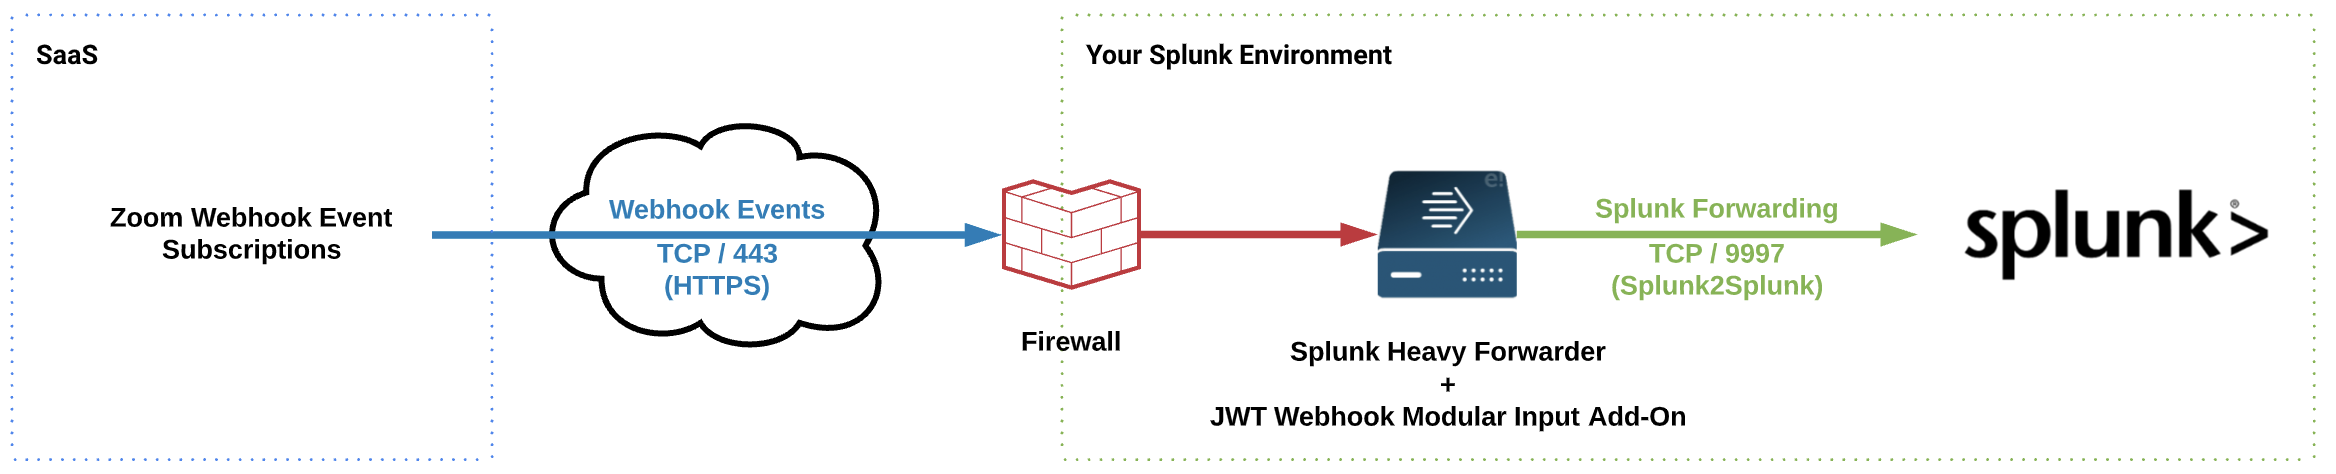
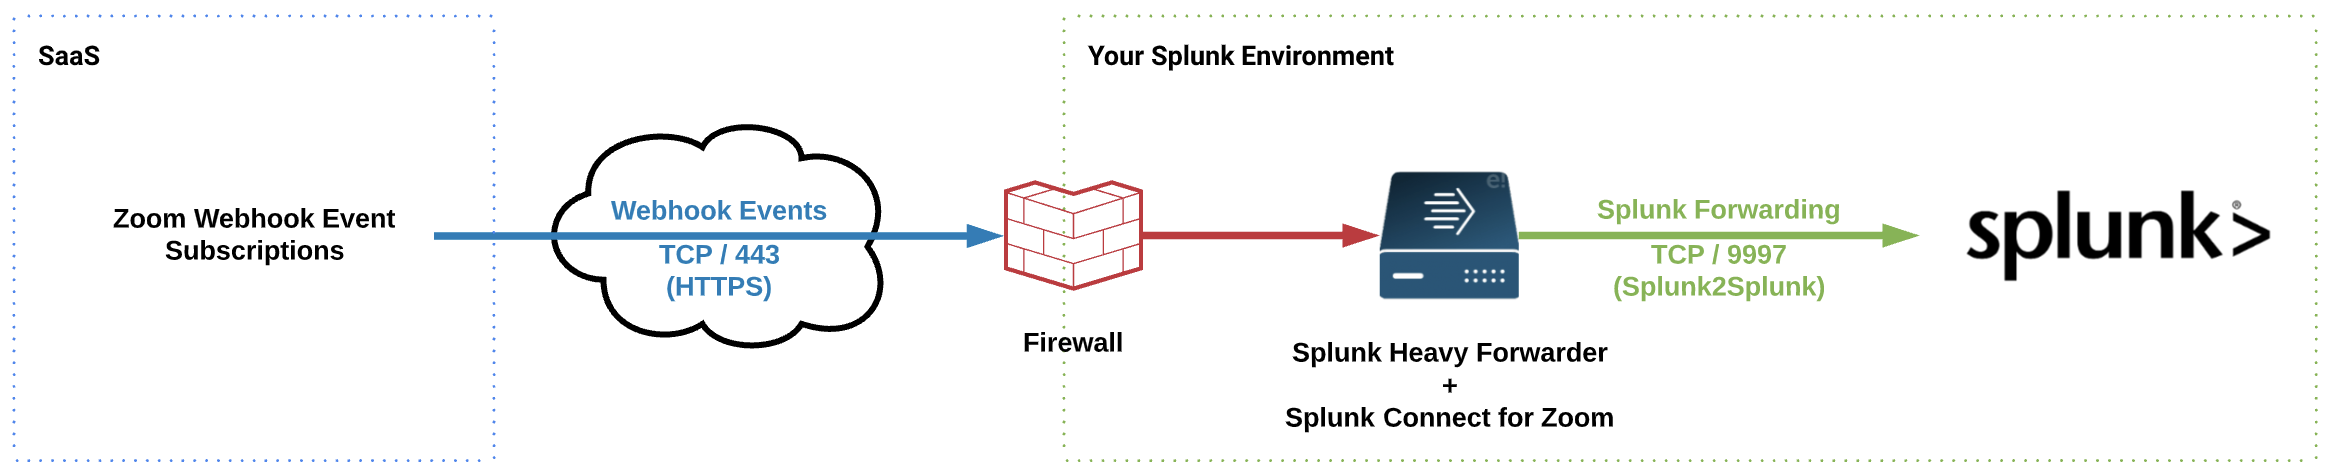
Release/1.0.4 (#24)
* Bump to 1.0.4 to match Splunkbase
* Update Zoom collection method with the use of Splunk Connect for Zoom

diff --git a/RUNBOOK.md b/RUNBOOK.md
@@ -16,14 +16,14 @@
     * [Create Zoom Webhook (Zoom only)](#create-zoom-webhook-zoom-only)
     * [Configure Remote Work Insights - Executive Dashboard](#configure-remote-work-insights---executive-dashboard)
 * [Zoom Walkthrough](#zoom-walkthrough)
-    * [Configure Splunk JWT Webhook Modular Input Add-on](#configure-splunk-jwt-webhook-modular-input-add-on)
+    * [Configure Splunk Connect for Zoom](#configure-splunk-connect-for-zoom)
     * [Create Zoom Webhook Only App](#create-zoom-webhook-only-app)
 * [Configure the Remote Work Insights - Executive Dashboard](#configure-the-remote-work-insights---executive-dashboard)
     * [Configure Indexes Macros](#configure-indexes-macros)
     * [Configure the CIM Index Constraints](#configure-the-cim-index-constraints)
 * [Additional Resources](#additional-resources)
     * [Splunk Docs](#splunk-docs)
-    * [Splunk JWT Webhook Add-on Support](#splunk-jwt-webhook-add-on-support)
+    * [Splunk Connect for Zoom](#splunk-connect-for-zoom)
     * [Zoom References](#zoom-references)
 * [Appendix](#appendix)
     * [Zoom Webhook Data Flow Diagram](#zoom-webhook-data-flow-diagram)
@@ -63,7 +63,7 @@ Download the following apps from [Splunkbase](https://splunkbase.splunk.com) and
 * Okta 
   * [Okta Identity Cloud Add-on for Splunk](https://splunkbase.splunk.com/app/3682/)
 * Zoom
-  * [Splunk JWT Webhook Modular Input Add-on](https://github.com/splunk/jwt_webhook)
+  * [Splunk Connect for Zoom](https://splunkbase.splunk.com/app/4961)
 
 ## Splunk Infrastructure
 * Standalone Splunk Instance
@@ -88,7 +88,7 @@ Download the following apps from [Splunkbase](https://splunkbase.splunk.com) and
 ## Permissions Requirements
 * Splunk Environment
   * Splunk admin account with ability to install/configure apps and create indexes
-  * Splunk CLI (Command Line) access (only required for the JWT Modular Input Add-on)
+  * Splunk CLI (Command Line) access (only required for the Splunk Connect for Zoom)
   * HTTP Event Collector (HEC) Token used by Splunk Connect for Syslog
 * Zoom Environment
   * Zoom administrator or developer account
@@ -112,7 +112,7 @@ In this runbook, you need to complete the following items:
   * Okta
     * [Okta Identity Cloud Add-on for Splunk](https://splunkbase.splunk.com/app/3682/)
   * Zoom
-    * [Splunk JWT Webhook Modular Input Add-on](https://github.com/splunk/jwt_webhook)
+    * [Splunk Connect for Zoom](https://splunkbase.splunk.com/app/4961)
 * Syslog
     * [Splunk Connect for Syslog](https://splunkbase.splunk.com/app/4740)
 
@@ -137,8 +137,7 @@ In this runbook, you need to complete the following items:
 * Okta
   * Configure Okta Identity Cloud Add-on for Splunk and collecting Okta events
 * Zoom
-  * Configure Splunk JWT Webhook Modular Input Add-on to receive Zoom Webhook events 
-    * Step by step instructions included in this section: [Configure Splunk JWT Webhook Modular Input Add-On](#Configure-Splunk-JWT-Webhook-Modular-Input-Add-On)
+  * Configure the [Splunk Connect for Zoom](https://splunkbase.splunk.com/app/4961) to accept incoming webhooks from Zoom
 
 ## Create Zoom Webhook (Zoom only)
 * Create Zoom Webhook Only App
@@ -167,40 +166,11 @@ In this runbook, you need to complete the following items:
 
 # Zoom Walkthrough
 
-## Configure Splunk JWT Webhook Modular Input Add-on
+## Configure Splunk Connect for Zoom
 This section is only applicable to Zoom Data Collection.
 
-* Ensure your environment allows incoming traffic from the Zoom Webhook Event Services. Work with your Network Administrator and Zoom Support to whitelist the related Zoom network CIDR blocks. For more details, please visit the [Network Firewall or Proxy Server Settings for Zoom](https://support.zoom.us/hc/en-us/articles/201362683-Network-Firewall-or-Proxy-Server-Settings-for-Zoom) documentation and feel free to contact Zoom support directly for additional assistance.
-* Install [Splunk JWT Webhook Modular Input Add-on](https://github.com/splunk/jwt_webhook) on a Splunk Heavy Forwarder (Single Instance Deployments can use the same instance)
-* From the Splunk Web Interface, go to **Settings > Data Inputs**
-![](media/data_input.png)
-* Click **Add New** for the **JWT Webhook** input
-![](media/jwt_webhook.png)
-* Fill the parameters as per the table below or you may enter specific value as per your environment. 
-**Note:**
-* The JWT Webhook Add-On uses the default Splunk Web self-signed certificate and private key as described here: [About securing Splunk Enterprise with SSL](https://docs.splunk.com/Documentation/Splunk/latest/Security/AboutsecuringyourSplunkconfigurationwithSSL). For security reasons and best practices, it is recommended to use a Trusted CA Signed SSL Certificates. You may follow this documentation to assist you with generating the needed certificates for your trusted CA: [How to get certificates signed by a third-party](https://docs.splunk.com/Documentation/Splunk/latest/Security/Howtogetthird-partycertificates). 
-* For the purpose of this document, we will use the default certificates that were shipped with Splunk to help you understand the setup process. The default certificates are located here
-  * `$SPLUNK_HOME/etc/auth/splunkweb/cert.pem`
-  * `$SPLUNK_HOME/etc/auth/splunkweb/privkey.pem`
-* If you wish to use your own SSL certificates, we recommend storing your certificate and private key in the following directory: `$SPLUNK_HOME/etc/auth/<your_folder>`
-
-| Parameter | Value |
-| --- | --- |
-| Name | Zoom |
-| Secret | Leave Empty |
-| Port| 4443 |
-| Path | Leave Empty |
-| SSL Certificate File | etc/auth/splunkweb/cert.pem |
-| SSL Certificate Key File | etc/auth/splunkweb/privkey.pem |
-| Password | Leave Empty |
-| Set sourcetype | Manual |
-| Sourcetype | zoom:webhook |
-| Host | Leave as is |
-| Index | zoom |
-
-![](media/add_data_dialog.png)
-* Click the ***Next*** button and this should complete the Input setup.
-![](media/add_data_dialog_focus.png)
+* Use the [Splunk Connect for Zoom](https://splunkbase.splunk.com/app/4961) to accept incoming webhooks from Zoom
+* Please visit the: [Splunk Connect for Zoom user documentation](https://docs.splunk.com/Documentation/ZoomConnect) to assist you with the installation and configuration.
 
 ## Create Zoom Webhook Only App
 For this section, you may follow Zoom's documentation: [Create a Webhook-Only App](https://marketplace.zoom.us/docs/guides/getting-started/app-types/create-webhook-only-app)
@@ -257,8 +227,9 @@ For this section, you may follow Zoom's documentation: [Create a Webhook-Only Ap
 * [Splunk CIM Manual](https://docs.splunk.com/Documentation/CIM/Latest/User/Overview)
 * [Splunk CIM Index Constraints](https://docs.splunk.com/Documentation/CIM/latest/User/Setup#Set_index_constraints)
 
-## Splunk JWT Webhook Add-on Support
-* [https://github.com/splunk/jwt_webhook/issues](https://github.com/splunk/jwt_webhook/issues)
+## Splunk Connect for Zoom
+* [Splunkbase: Splunk Connect for Zoom](https://splunkbase.splunk.com/app/4961)
+* [Splunk Connect for Zoom user documentation](https://docs.splunk.com/Documentation/ZoomConnect)
 
 ## Zoom References
 * [Zoom Create a Webhook-only App](https://marketplace.zoom.us/docs/guides/getting-started/app-types/create-webhook-only-app)

diff --git a/README.md b/README.md
@@ -1,6 +1,10 @@
 # Remote Work Insights - Executive Dashboard
 [![License](https://img.shields.io/:license-apache-blue.svg)](http://www.apache.org/licenses/LICENSE-2.0.html)
 
+## Splunkbase Official Version
+
+[https://splunkbase.splunk.com/app/4952](https://splunkbase.splunk.com/app/4952)
+
 ## Introduction
 The purpose of the **Remote Work Insights - Executive Dashboard** is to provide the ability to aggregate information across VPN, authentication, and video conferencing services to provide insights into the connectivity, productivity, and engagement across a remote workforce. An example dashboard that synthesizes information across these services is illustrated below:
 

diff --git a/CHANGELOG.md b/CHANGELOG.md
@@ -5,6 +5,9 @@
 * The format is based on [Keep a Changelog](https://keepachangelog.com/en/1.0.0/),
 and this project adheres to [Semantic Versioning](https://semver.org/spec/v2.0.0.html).
 
+## [1.0.4] - 2020-04-15
+- Bump version to 1.0.4 to follow Splunkbase versioning
+
 ## [1.0.2] - 2020-04-10
 
 ### Added
